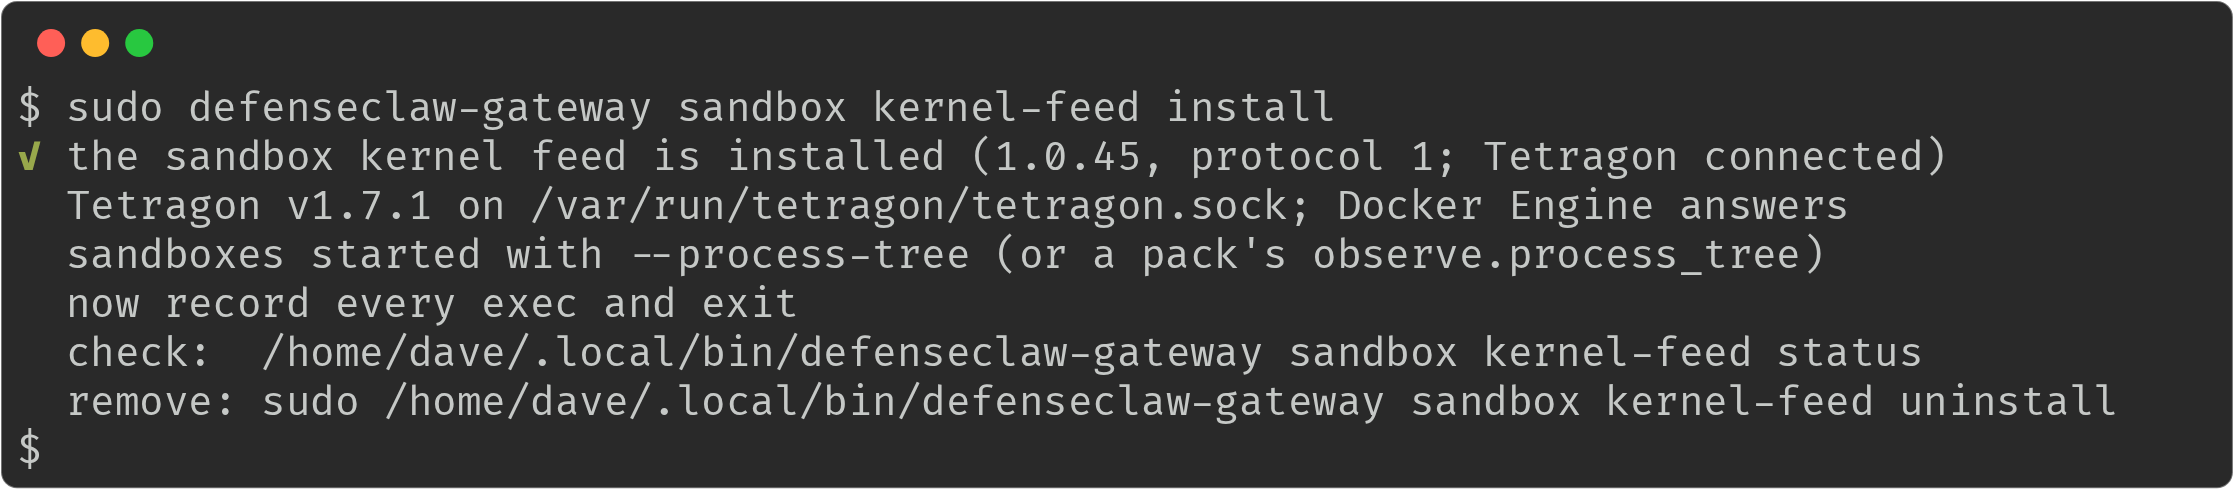
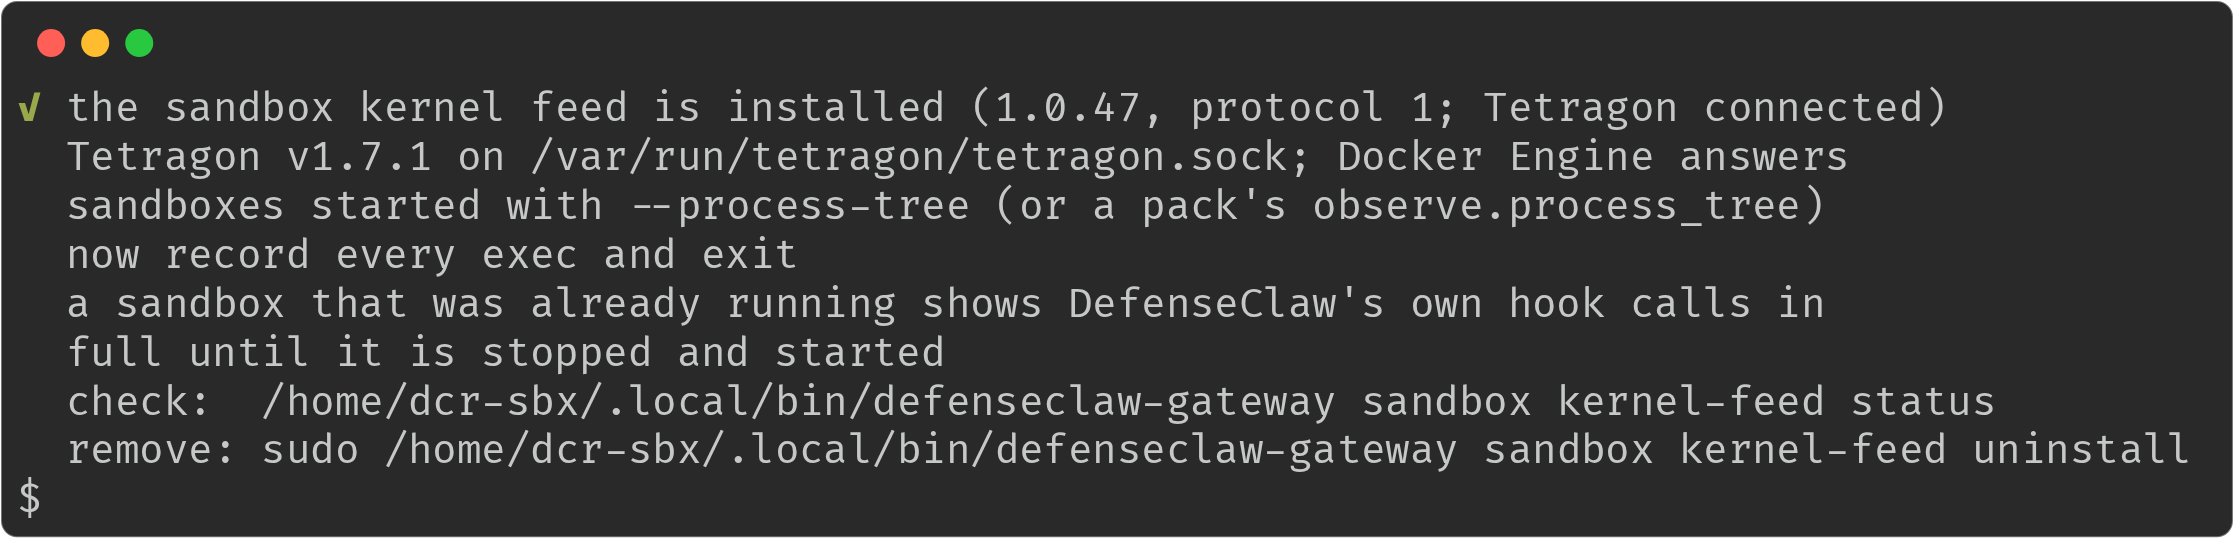
docs: name the refusal reason required_for and refresh the kernel feed install capture (#1264, #1151)

diff --git a/docs/OPENSHELL_SANDBOX_EVENTS.md b/docs/OPENSHELL_SANDBOX_EVENTS.md
@@ -71,7 +71,7 @@ go through `audit.SandboxManagedTelemetry`
 - `log.sandbox.policy.rematched`: a live registration was matched again (`defenseclaw.sandbox.policy.rematch.reason` `generation`, `facts` or `lookup_resolved`), with the previous profile and policy digest.
 - `log.sandbox.policy.foreign_rule`: a network rule that neither the rendered policy nor a stored decision accounts for was removed, its sandbox stopped, or only reported (`defenseclaw.sandbox.managed.action` `remove`, `stop`, `alert`).
 - `log.sandbox.ask.decided`: the managed gateway decided a user's ask, unblock or block, and whether it kept the decision.
-- `log.sandbox.host_run_refused`, `log.sandbox.host_run_unavailable`: a host agent run was refused because the profile requires a sandbox, or because this computer cannot provide one (`defenseclaw.sandbox.managed.reason` such as `required_group`, `os_unsupported`, `no_docker_group`, `no_kvm`, `prerequisite_missing`, `account_busy` for a run refused because another account is using the sandboxes of the computer); an alert-only unavailability has action `allow`.
+- `log.sandbox.host_run_refused`, `log.sandbox.host_run_unavailable`: a host agent run was refused because the profile requires a sandbox, or because this computer cannot provide one (`defenseclaw.sandbox.managed.reason` such as `required_for`, `os_unsupported`, `no_docker_group`, `no_kvm`, `prerequisite_missing`, `account_busy` for a run refused because another account is using the sandboxes of the computer); an alert-only unavailability has action `allow`.
 - `log.sandbox.access_refused`: a destination the managed policy refused, with the rule (`defenseclaw.sandbox.policy.rule`) and `server.address`; the rule is the caller's own match only.
 - `log.sandbox.foreign_sandbox`, `log.sandbox.foreign_container`: a sandbox on the user's OpenShell gateway that DefenseClaw did not create (stopped, deleted when it cannot stop, or reported) and an agent container started outside DefenseClaw (reported only). Both carry the account's own profile match and the detected agent connector, including without a registered sandbox. Deletion is recorded as action `stop`, including a failed deletion.
 - `log.sandbox.settings_drift`: an OpenShell setting differs from `enterprise.openshell` (`defenseclaw.openshell.settings.field` names the key, never the value), which pauses the user's sandboxes.
